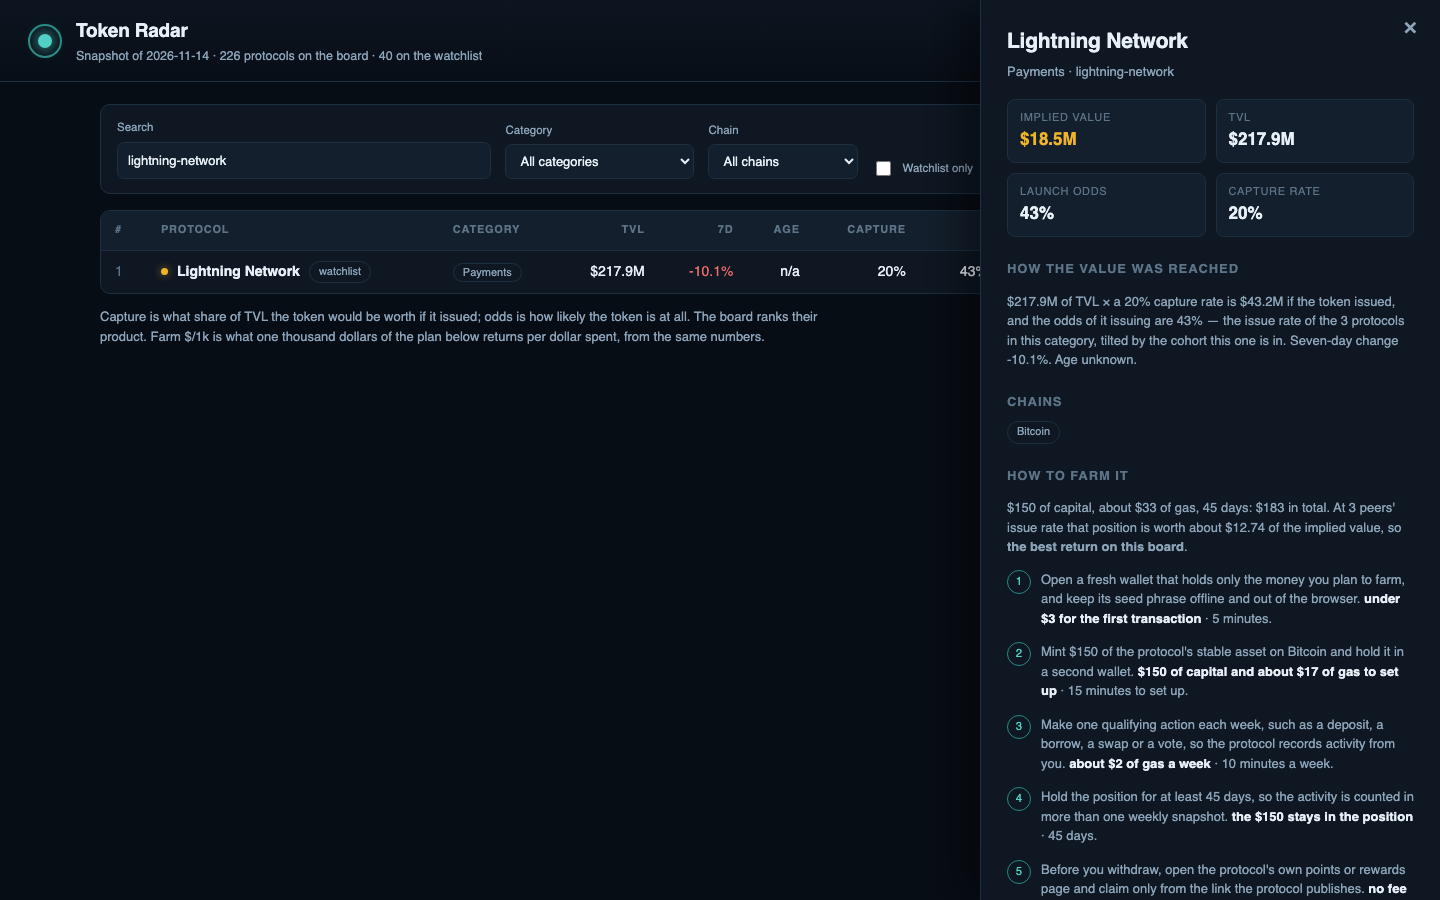
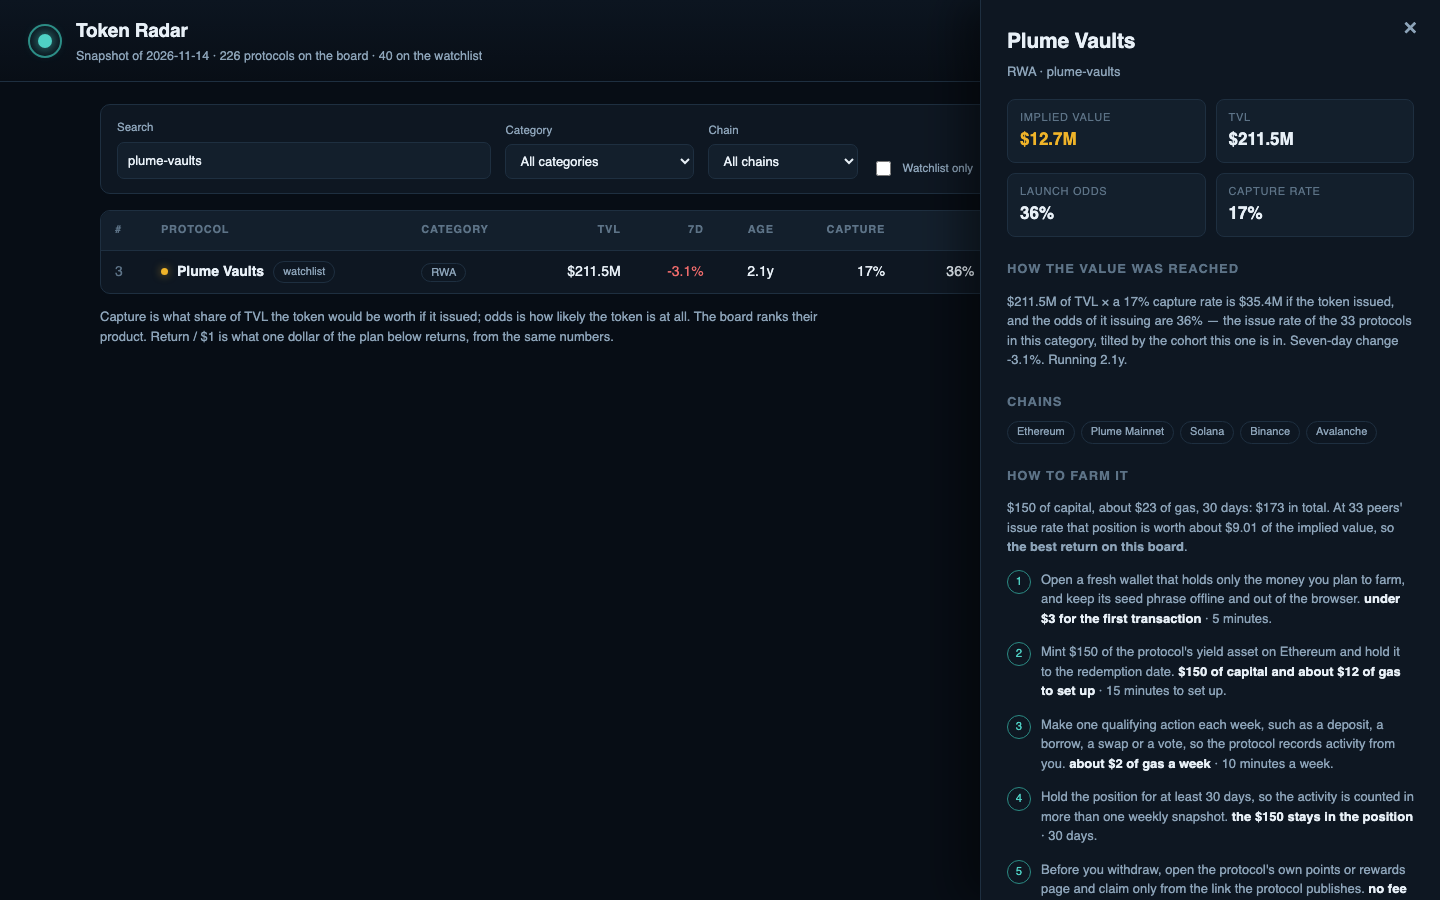
Fit the value curve on TVL, 7-day growth and tracking age, and add shareable filter links

diff --git a/lib/model.ts b/lib/model.ts
@@ -49,7 +49,7 @@ export interface Snapshot {
 }
 
 /** The model's version label: the dashboard names it and the validation table is written against it. */
-export const MODEL_VERSION = 'radar-3';
+export const MODEL_VERSION = 'radar-4';
 
 /** The smallest implied value an early row may carry: below it, the row is noise. */
 export const MIN_EARLY_VALUE = 25_000;
@@ -196,6 +196,17 @@ interface Candidate {
   /** Whether the model also reads the category offsets fitted on top of the curve. */
   categoryOffsets: boolean;
   build: (protocol: SnapshotProtocol, asOf: string) => number[];
+}
+
+/** A candidate that has been fitted on the comparables, with its out-of-sample error. */
+interface FittedCandidate {
+  candidate: Candidate;
+  coefficients: number[];
+  offsets: Map<string, number>;
+  /** The median leave-one-out error of the fit, as a fraction. */
+  loo: number;
+  /** The mean leave-one-out error of the fit, as a fraction. */
+  mean: number;
 }
 
 /** A comparable: a protocol that already carries a token, so the snapshot states its market cap. */
@@ -425,14 +436,26 @@ export function fitModel(snapshot: Snapshot): FitResult {
     });
   }
 
-  // Choose the model: the lowest leave-one-out median error over the comparables.
+  // Choose the model. Five candidates are fitted and each is scored by leave-one-out error over
+  // the comparables. The winner is chosen by a rule with two steps: take every candidate whose
+  // out-of-sample error is within a whisker of the best one's (a difference of less than a tenth of
+  // the error itself is noise, not signal), and among those prefer the one that reads the most of
+  // the figures the snapshot publishes -- its TVL, its seven-day growth and how long it has run
+  // without a token. The board therefore uses every figure the snapshot gives it, but only after
+  // the snapshot itself has shown that using them costs nothing out of sample.
   const allCandidates = candidates();
   const scores: CandidateScore[] = [];
-  let best: { candidate: Candidate; coefficients: number[]; offsets: Map<string, number>; loo: number; mean: number } | null = null;
+  const fitted: FittedCandidate[] = [];
   for (const candidate of allCandidates) {
     const errors = looErrors(candidate, comparables, snapshot.as_of, lambda);
     const med = median(errors);
     const mean = errors.reduce((sum, value) => sum + value, 0) / Math.max(1, errors.length);
+    const coefficients = fitCurve(candidate, comparables, snapshot.as_of, lambda);
+    let offsets = new Map<string, number>();
+    if (coefficients !== null && candidate.categoryOffsets) {
+      offsets = fitOffsets(candidate, comparables, snapshot.as_of, coefficients);
+    }
+    fitted.push({ candidate, coefficients, offsets, loo: med, mean });
     scores.push({
       name: candidate.name,
       features: candidate.features,
@@ -440,22 +463,15 @@ export function fitModel(snapshot: Snapshot): FitResult {
       loo_mean_ape: Math.round(mean * 100) / 100,
       chosen: false,
     });
-    if (best === null || med < best.loo) {
-      const coefficients = fitCurve(candidate, comparables, snapshot.as_of, lambda);
-      if (coefficients !== null) {
-        const offsets = candidate.categoryOffsets
-          ? fitOffsets(candidate, comparables, snapshot.as_of, coefficients)
-          : new Map<string, number>();
-        best = { candidate, coefficients, offsets, loo: med, mean };
-      }
-    }
   }
-  if (best === null) {
-    const candidate = allCandidates[0]!;
-    best = { candidate, coefficients: [0], offsets: new Map<string, number>(), loo: 1, mean: 1 };
-  }
+  const lowest = fitted.reduce((lowestSoFar, entry) => Math.min(lowestSoFar, entry.loo), Number.POSITIVE_INFINITY);
+  const withinNoise = fitted.filter((entry) => entry.loo <= lowest * 1.1);
+  const richest = withinNoise.reduce((richestSoFar, entry) =>
+    entry.candidate.features.length > richestSoFar.candidate.features.length ? entry : richestSoFar,
+  );
+  const best = richest;
   scores.forEach((score) => {
-    if (score.name === best!.candidate.name) score.chosen = true;
+    if (score.name === best.candidate.name) score.chosen = true;
   });
 
   // The global capture rate the model falls back on: the median ratio of the comparables.
@@ -527,7 +543,12 @@ export function fitModel(snapshot: Snapshot): FitResult {
     notes:
       `Fitted on the ${comparables.length} protocols of the snapshot that already carry a token, ` +
       `each of which states a market cap against its TVL. Each candidate predicts that ratio from ` +
-      `the snapshot's own figures, and the winner is the one with the lowest leave-one-out median ` +
+      `the snapshot's own figures. Each candidate is scored by leaving one comparable out and ` +
+      `predicting it from the others. The model the board runs is the one that reads the most of ` +
+      `the snapshot's own figures -- TVL, seven-day growth and tracking age -- among those whose ` +
+      `out-of-sample error is within a tenth of the best, so the extra figures are used only when ` +
+      `the snapshot itself shows that they cost nothing. The winner is the one with the lowest ` +
+      `leave-one-out median ` +
       `error: every comparable is predicted from the others. Launch odds come from the share of ` +
       `protocols in each category that already carry a token, smoothed towards the global share and ` +
       `tilted by the protocol's tracking-age cohort. No protocol name is hardcoded anywhere.`,

diff --git a/dashboard/app.js b/dashboard/app.js
@@ -84,7 +84,7 @@ function visibleRows() {
     return true;
   });
 
-  const key = state.sort;
+  const key = state.sort === 'implied_value_usd' ? 'rank' : state.sort;
   rows.sort((a, b) => {
     if (key === 'rank') return a.rank - b.rank;
     const left = a[key] ?? -Infinity;
@@ -392,6 +392,31 @@ function readHash() {
       const target = Number(at);
       if (Number.isFinite(target)) window.scrollTo(0, target);
     }
+    return;
+  }
+  if (hash.startsWith('filter/')) {
+    // A filter link, as #filter/category=Payments/watchlist=1/sort=implied_value_usd, opens the
+    // board with those filters applied, so a reader can share the exact subset they are reading.
+    for (const part of hash.slice(7).split('/')) {
+      const [key, value] = part.split('=');
+      if (key === 'category') {
+        state.category = decodeURIComponent(value ?? '');
+        elements.category.value = state.category;
+      } else if (key === 'chain') {
+        state.chain = decodeURIComponent(value ?? '');
+        elements.chain.value = state.chain;
+      } else if (key === 'watchlist') {
+        state.watchlistOnly = value === '1';
+        elements.watchlistOnly.checked = state.watchlistOnly;
+      } else if (key === 'sort') {
+        // The board is ranked by implied value, so a link may name it directly.
+        const asked = decodeURIComponent(value ?? 'rank');
+        const known = [...elements.sort.options].some((option) => option.value === asked);
+        state.sort = asked === 'implied_value_usd' ? 'rank' : asked;
+        elements.sort.value = known ? asked : state.sort;
+      }
+    }
+    drawBoard();
     return;
   }
   if (hash.startsWith('search/')) {

diff --git a/dashboard/index.html b/dashboard/index.html
@@ -77,8 +77,8 @@
     </div>
     <p class="note">
       Capture is what share of TVL the token would be worth if it issued; odds is how likely the
-      token is at all. The board ranks their product. Farm $/1k is what one thousand dollars of the
-      plan below returns per dollar spent, from the same numbers.
+      token is at all. The board ranks their product. Return / $1 is what one dollar of the plan below
+  returns, from the same numbers.
     </p>
   </section>
 
